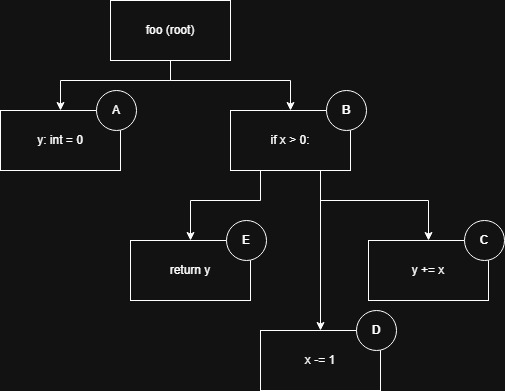
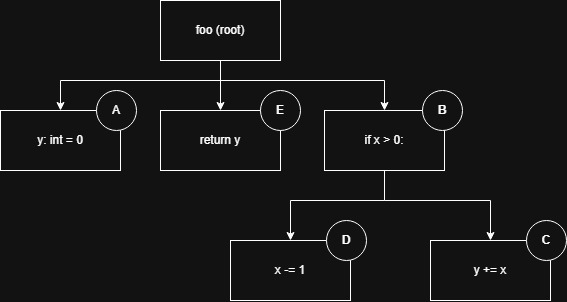
Update

diff --git a/p3/ejercicios.md b/p3/ejercicios.md
@@ -75,7 +75,7 @@ Si tomamos los minimos nos queda:
 ## Ejercicio 4
 | test_1 | distanceTrue | distanceFalse |
 |--------|--------------|---------------|
-| C1     | 3            | 0             |
+| C1     | 4            | 0             |
 | C2     | inf          | inf           |
 
 | test_2 | distanceTrue | distanceFalse |
@@ -121,7 +121,6 @@ Grafo control precedencia:
 <p align="center">
   <img src="images/p3e5c.jpg" alt="Arbol de cómputo">
 </p>
-CHEQUEAR
 
 ## Ejercicio 6
 Control flow graph:
@@ -240,5 +239,49 @@ Control flow graph:
 
 | test_1                     | distanceTrue | distanceFalse |
 |----------------------------|--------------|---------------|
-| 3: while i < len(xs): # c1 | 0            |               |
-| 5: if xs[i] % 2 == 0: # c2 |              |               |
+| 3: while i < len(xs): # c1 | 0            | 0             |
+| 5: if xs[i] % 2 == 0: # c2 | 0            | 3             |
+
+| test_2                     | distanceTrue | distanceFalse |
+|----------------------------|--------------|---------------|
+| 3: while i < len(xs): # c1 | 0            | 0             |
+| 5: if xs[i] % 2 == 0: # c2 | 0            | 3             |
+
+| Nodo | Dominadores   |
+|------|---------------|
+| A    | A             |
+| B    | A, B          |
+| C    | A, B, C       |
+| D    | A, B, C, D    |
+| E    | A, B, C, D, E |
+| F    | A, B, C, D, F |
+| G    | A, B, C, D, G |
+| H    | A, B, C, H    |
+
+| Nodo | Post-Dominadores |
+|------|------------------|
+| A    | A, B, C, H       |
+| B    | B, C, H          |
+| C    | C, H             |
+| D    | D, G, C, H       |
+| E    | E, G, C, H       |
+| F    | F, G, C, H       |
+| G    | G, C, H          |
+| H    | H                |
+
+<p align="center">
+  <img src="images/p3e9d.jpg" alt="Control Dependency">
+</p>
+
+
+
+| Nodo                       | Distancia (Approach Level) |
+|----------------------------|----------------------------|
+| 1: s: int = 0              | 0                          |
+| 2: i: int = 0              | 0                          |
+| 3: while i < len(xs): # c1 | 0                          |
+| 4: if xs[i] % 2 == 0: # c2 | 0                          |
+| 5: s += xs[i]              | 0                          |
+| 7: s -= xs[i]              | 1                          |
+| 8: i += 1                  | 0                          |
+| 9: return s                |                            |
